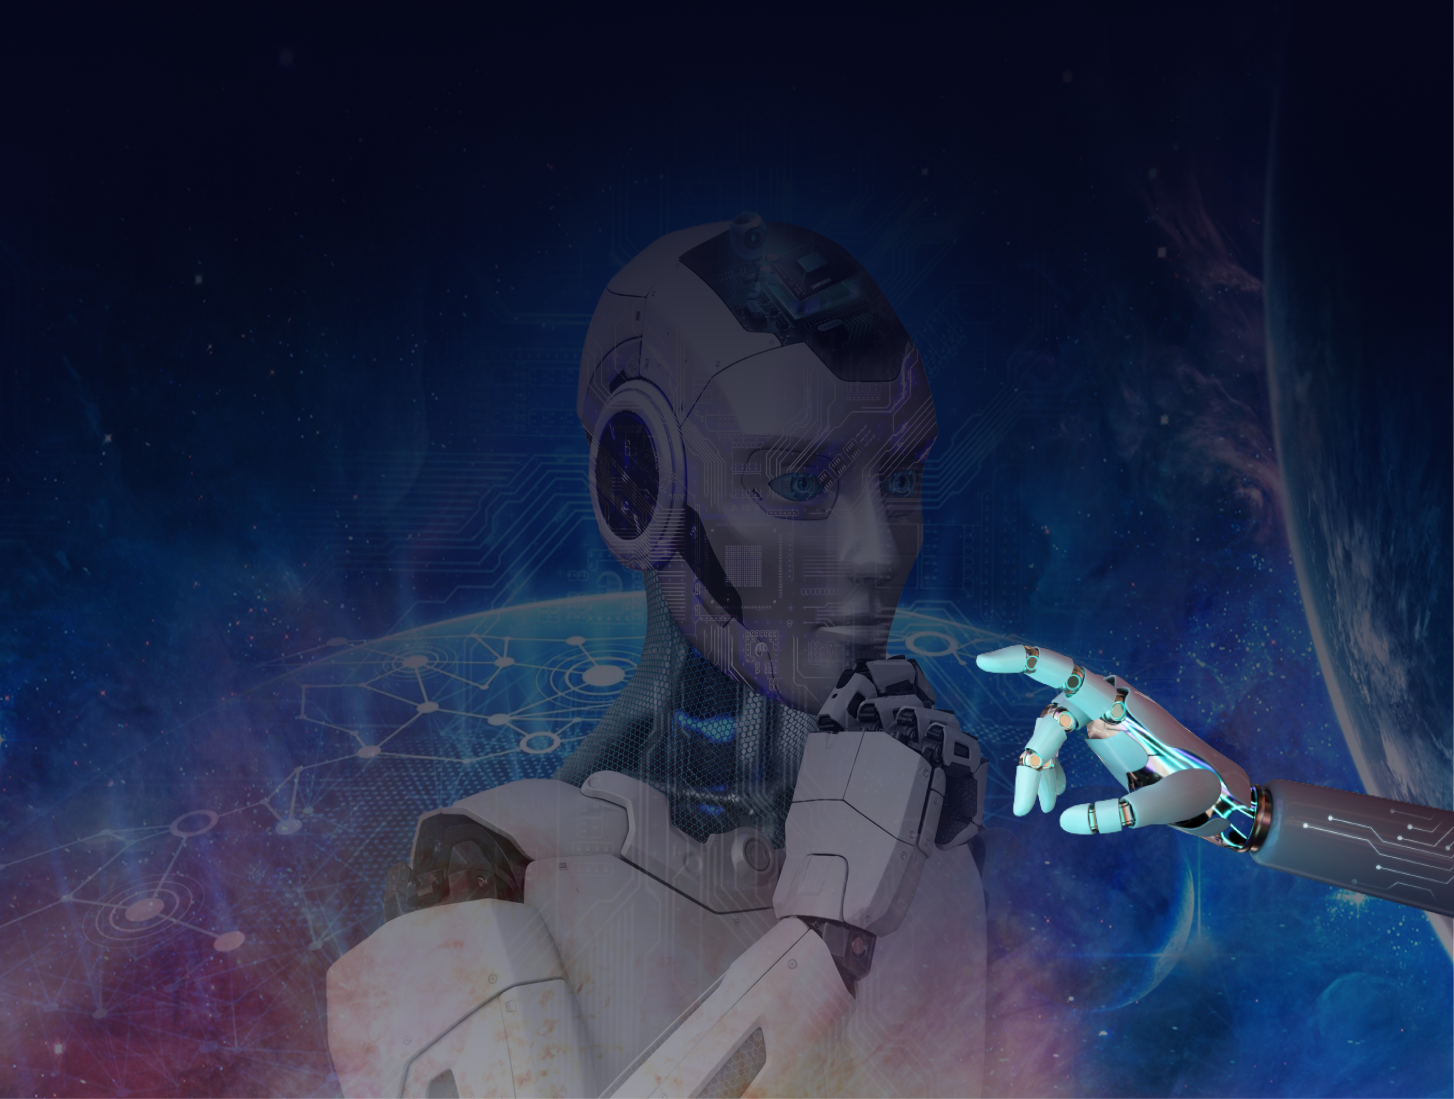
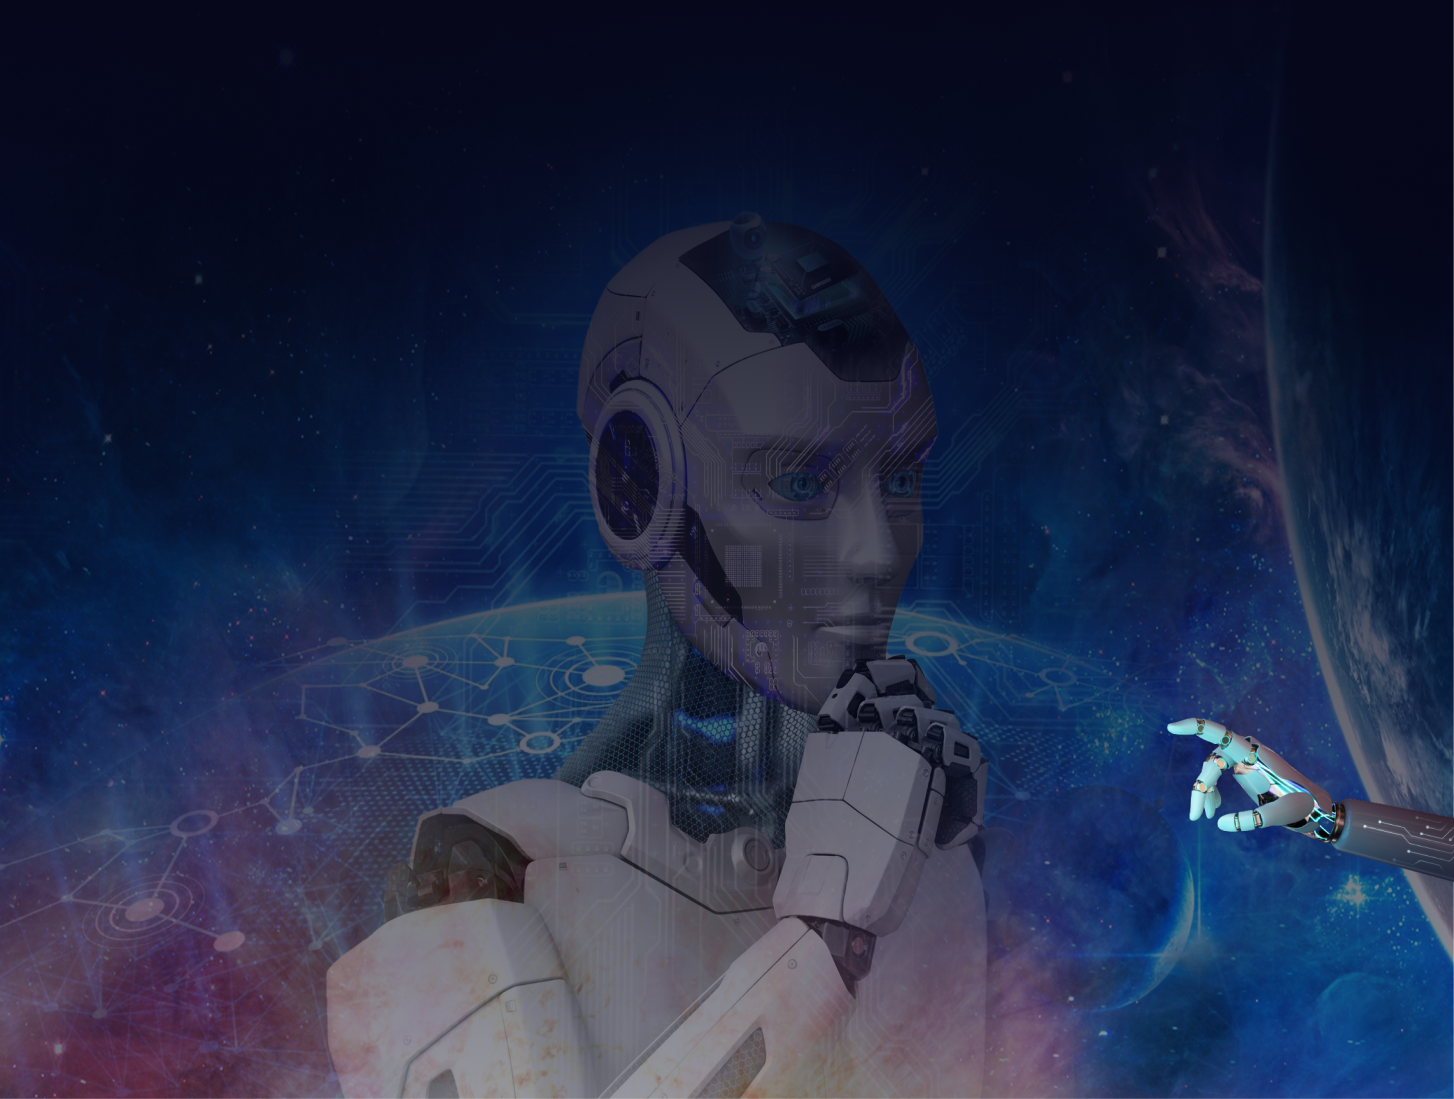
feat  work

Changed region(s): [[0.6499, 0.5878, 1.0, 0.8353]]

diff --git a/src/constants/index.js b/src/constants/index.js
@@ -116,55 +116,47 @@ const technologies = [
 
 const experiences = [
   {
-    title: "React.js Developer",
+    title: "Collecte des données",
     company_name: "Starbucks",
     icon: starbucks,
     iconBg: "#383E56",
     date: "March 2020 - April 2021",
     points: [
-      "Developing and maintaining web applications using React.js and other related technologies.",
-      "Collaborating with cross-functional teams including designers, product managers, and other developers to create high-quality products.",
-      "Implementing responsive design and ensuring cross-browser compatibility.",
-      "Participating in code reviews and providing constructive feedback to other developers.",
+      "Tout d'abord, Onirix collecte des données sur les rêves de ses utilisateurs à l'aide de ses algorithmes de collecte de données.",
+      " Ces algorithmes collectent des informations telles que le type de rêve, les émotions associées et les détails pertinents tels que les personnes, les lieux et les objets impliqués dans le rêve.",
     ],
   },
   {
-    title: "React Native Developer",
+    title: "Analyse des données",
     company_name: "Tesla",
     icon: tesla,
     iconBg: "#E6DEDD",
     date: "Jan 2021 - Feb 2022",
     points: [
-      "Developing and maintaining web applications using React.js and other related technologies.",
-      "Collaborating with cross-functional teams including designers, product managers, and other developers to create high-quality products.",
-      "Implementing responsive design and ensuring cross-browser compatibility.",
-      "Participating in code reviews and providing constructive feedback to other developers.",
+      "Une fois les données collectées, Onirix les analyse à l'aide de ses algorithmes de traitement de données. ",
+      " Ces algorithmes cherchent des schémas et des connexions dans les données pour identifier les significations cachées dans les rêves.",
     ],
   },
   {
-    title: "Web Developer",
+    title: "Interprétation des résultats",
     company_name: "Shopify",
     icon: shopify,
     iconBg: "#383E56",
     date: "Jan 2022 - Jan 2023",
     points: [
-      "Developing and maintaining web applications using React.js and other related technologies.",
-      "Collaborating with cross-functional teams including designers, product managers, and other developers to create high-quality products.",
-      "Implementing responsive design and ensuring cross-browser compatibility.",
-      "Participating in code reviews and providing constructive feedback to other developers.",
+      "Après l'analyse des données, Onirix interprète les résultats pour identifier les significations cachées dans les rêves.",
+      "Les chercheurs de l'Institut International des Rêves travaillent en étroite collaboration avec Onirix pour interpréter les résultats et fournir des prédictions prémonitoires personnalisées pour chaque utilisateur.",
     ],
   },
   {
-    title: "Full stack Developer",
+    title: "Fournir des résultats personnalisés",
     company_name: "Meta",
     icon: meta,
     iconBg: "#E6DEDD",
     date: "Jan 2023 - Present",
     points: [
-      "Developing and maintaining web applications using React.js and other related technologies.",
-      "Collaborating with cross-functional teams including designers, product managers, and other developers to create high-quality products.",
-      "Implementing responsive design and ensuring cross-browser compatibility.",
-      "Participating in code reviews and providing constructive feedback to other developers.",
+      "Enfin, Onirix fournit des résultats personnalisés à chaque utilisateur en fonction de l'analyse et de l'interprétation des données de leurs rêves.",
+      "Les résultats comprennent des prédictions prémonitoires pour aider les utilisateurs à anticiper leur avenir, ainsi que des informations utiles sur les événements à venir.",
     ],
   },
 ];

diff --git a/src/components/About.jsx b/src/components/About.jsx
@@ -24,7 +24,7 @@ const ServiceCard = ({ index, title, icon }) => (
         <img
           src={icon}
           alt="web-development"
-          className="w-16 h-16 object-contain"
+          className="w-[150px] object-contain"
         />
 
         <h3 className="text-white text-[20px] font-bold text-center">
@@ -40,18 +40,14 @@ const About = () => {
     <>
       <motion.div variants={textVariant()}>
         <p className={styles.sectionSubText}>Introduction</p>
-        <h2 className={styles.sectionHeadText}>Overview.</h2>
+        <h2 className={styles.sectionHeadText}>Que fait Onirix ?</h2>
       </motion.div>
 
       <motion.p
         variants={fadeIn("", "", 0.1, 1)}
         className="mt-4 text-secondary text-[17px] max-w-3xl leading-[30px]"
       >
-        I'm a skilled software developer with experience in TypeScript and
-        JavaScript, and expertise in frameworks like React, Node.js, and
-        Three.js. I'm a quick learner and collaborate closely with clients to
-        create efficient, scalable, and user-friendly solutions that solve
-        real-world problems. Let's work together to bring your ideas to life!
+        Explorez les profondeurs de votre subconscient grâce à la technologie révolutionnaire Onirix. Découvrez les messages cachés dans vos rêves et obtenez des prédictions personnalisées sur les événements à venir. Les symboles et les significations de vos rêves pourraient révéler des secrets sur votre vie, que notre équipe d'experts en analyse de rêves peut vous aider à interpréter. Plongez dans le monde fascinant de l'interprétation des rêves et découvrez ce que votre avenir vous réserve.
       </motion.p>
 
       <div className="mt-20 flex flex-wrap gap-10">

diff --git a/src/components/Hero.jsx b/src/components/Hero.jsx
@@ -16,18 +16,18 @@ const Hero = () => {
 
         <div>
           <h1 className={`${styles.heroHeadText} text-white`}>
-          Innovation Through   <span className="text-[#915EFF]">AI</span>
+           Les rêves peuvent révéler votre avenir,   <span className="text-[#915EFF]">explorez-en les signification</span>
           </h1>
           <p className={`${styles.heroSubText} mt-2 text-white-100`}>
-          We leverage the power of artificial intelligence to build cognitive <br className="sm:block hidden" />
-          solutions, products, and platforms that help businesses automate their operations and solve their challenges with advanced AI technologies.
+          Explorez les profondeurs de votre subconscient grâce à la technologie révolutionnaire Onirix.  <br className="sm:block hidden" />
+          Découvrez les messages cachés dans vos rêves et obtenez des prédictions personnalisées sur les événements à venir. 
           </p>
         </div>
         <div className="flex flex-col justify-center items-center mt-5">
           <img
               src={github}
               alt="github"
-              className="image-AI w-[1500px] h-full object-contain"
+              className="image-AI w-[1200px] h-full object-contain"
           />
         </div>
       </div>

diff --git a/src/styles.js b/src/styles.js
@@ -4,9 +4,9 @@ const styles = {
   padding: "sm:px-16 px-6 sm:py-16 py-10",
 
   heroHeadText:
-    "font-black text-white lg:text-[80px] sm:text-[60px] xs:text-[50px] text-[40px] lg:leading-[98px] mt-2",
+    "font-black text-white lg:text-[48px] sm:text-[60px] xs:text-[50px] text-[40px]  mt-2",
   heroSubText:
-    "text-[#dfd9ff] font-medium lg:text-[30px] sm:text-[26px] xs:text-[20px] text-[16px] lg:leading-[40px]",
+    "text-[#dfd9ff] font-medium lg:text-[20px] sm:text-[26px] xs:text-[20px] text-[16px]",
 
   sectionHeadText:
     "text-white font-black md:text-[60px] sm:text-[50px] xs:text-[40px] text-[30px]",

diff --git a/src/components/Experience.jsx b/src/components/Experience.jsx
@@ -61,7 +61,7 @@ const Experience = () => {
     <>
       <motion.div variants={textVariant()}>
         <p className={styles.sectionSubText}>What I have done so far</p>
-        <h2 className={styles.sectionHeadText}>Work Experience.</h2>
+        <h2 className={styles.sectionHeadText}>Workflow d’Onirix</h2>
       </motion.div>
 
       <div className="mt-20 flex flex-col">

diff --git a/index.html b/index.html
@@ -4,7 +4,7 @@
     <meta charset="UTF-8" />
     <link rel="icon" type="image/svg+xml" href="./logo.svg" />
     <meta name="viewport" content="width=device-width, initial-scale=1.0" />
-    <title>Ladunjexa | 3D Portfolio</title>
+    <title>AI | Onirix</title>
   </head>
   <body>
     <div id="root"></div>

diff --git a/src/App.jsx b/src/App.jsx
@@ -23,8 +23,9 @@ const App = () => {
         <About />
         <Experience />
         <Tech />
-        <Works />
         <Feedbacks />
+        <Works />
+        
         <div className="relative z-0">
           <Contact />
           <StarsCanvas />
